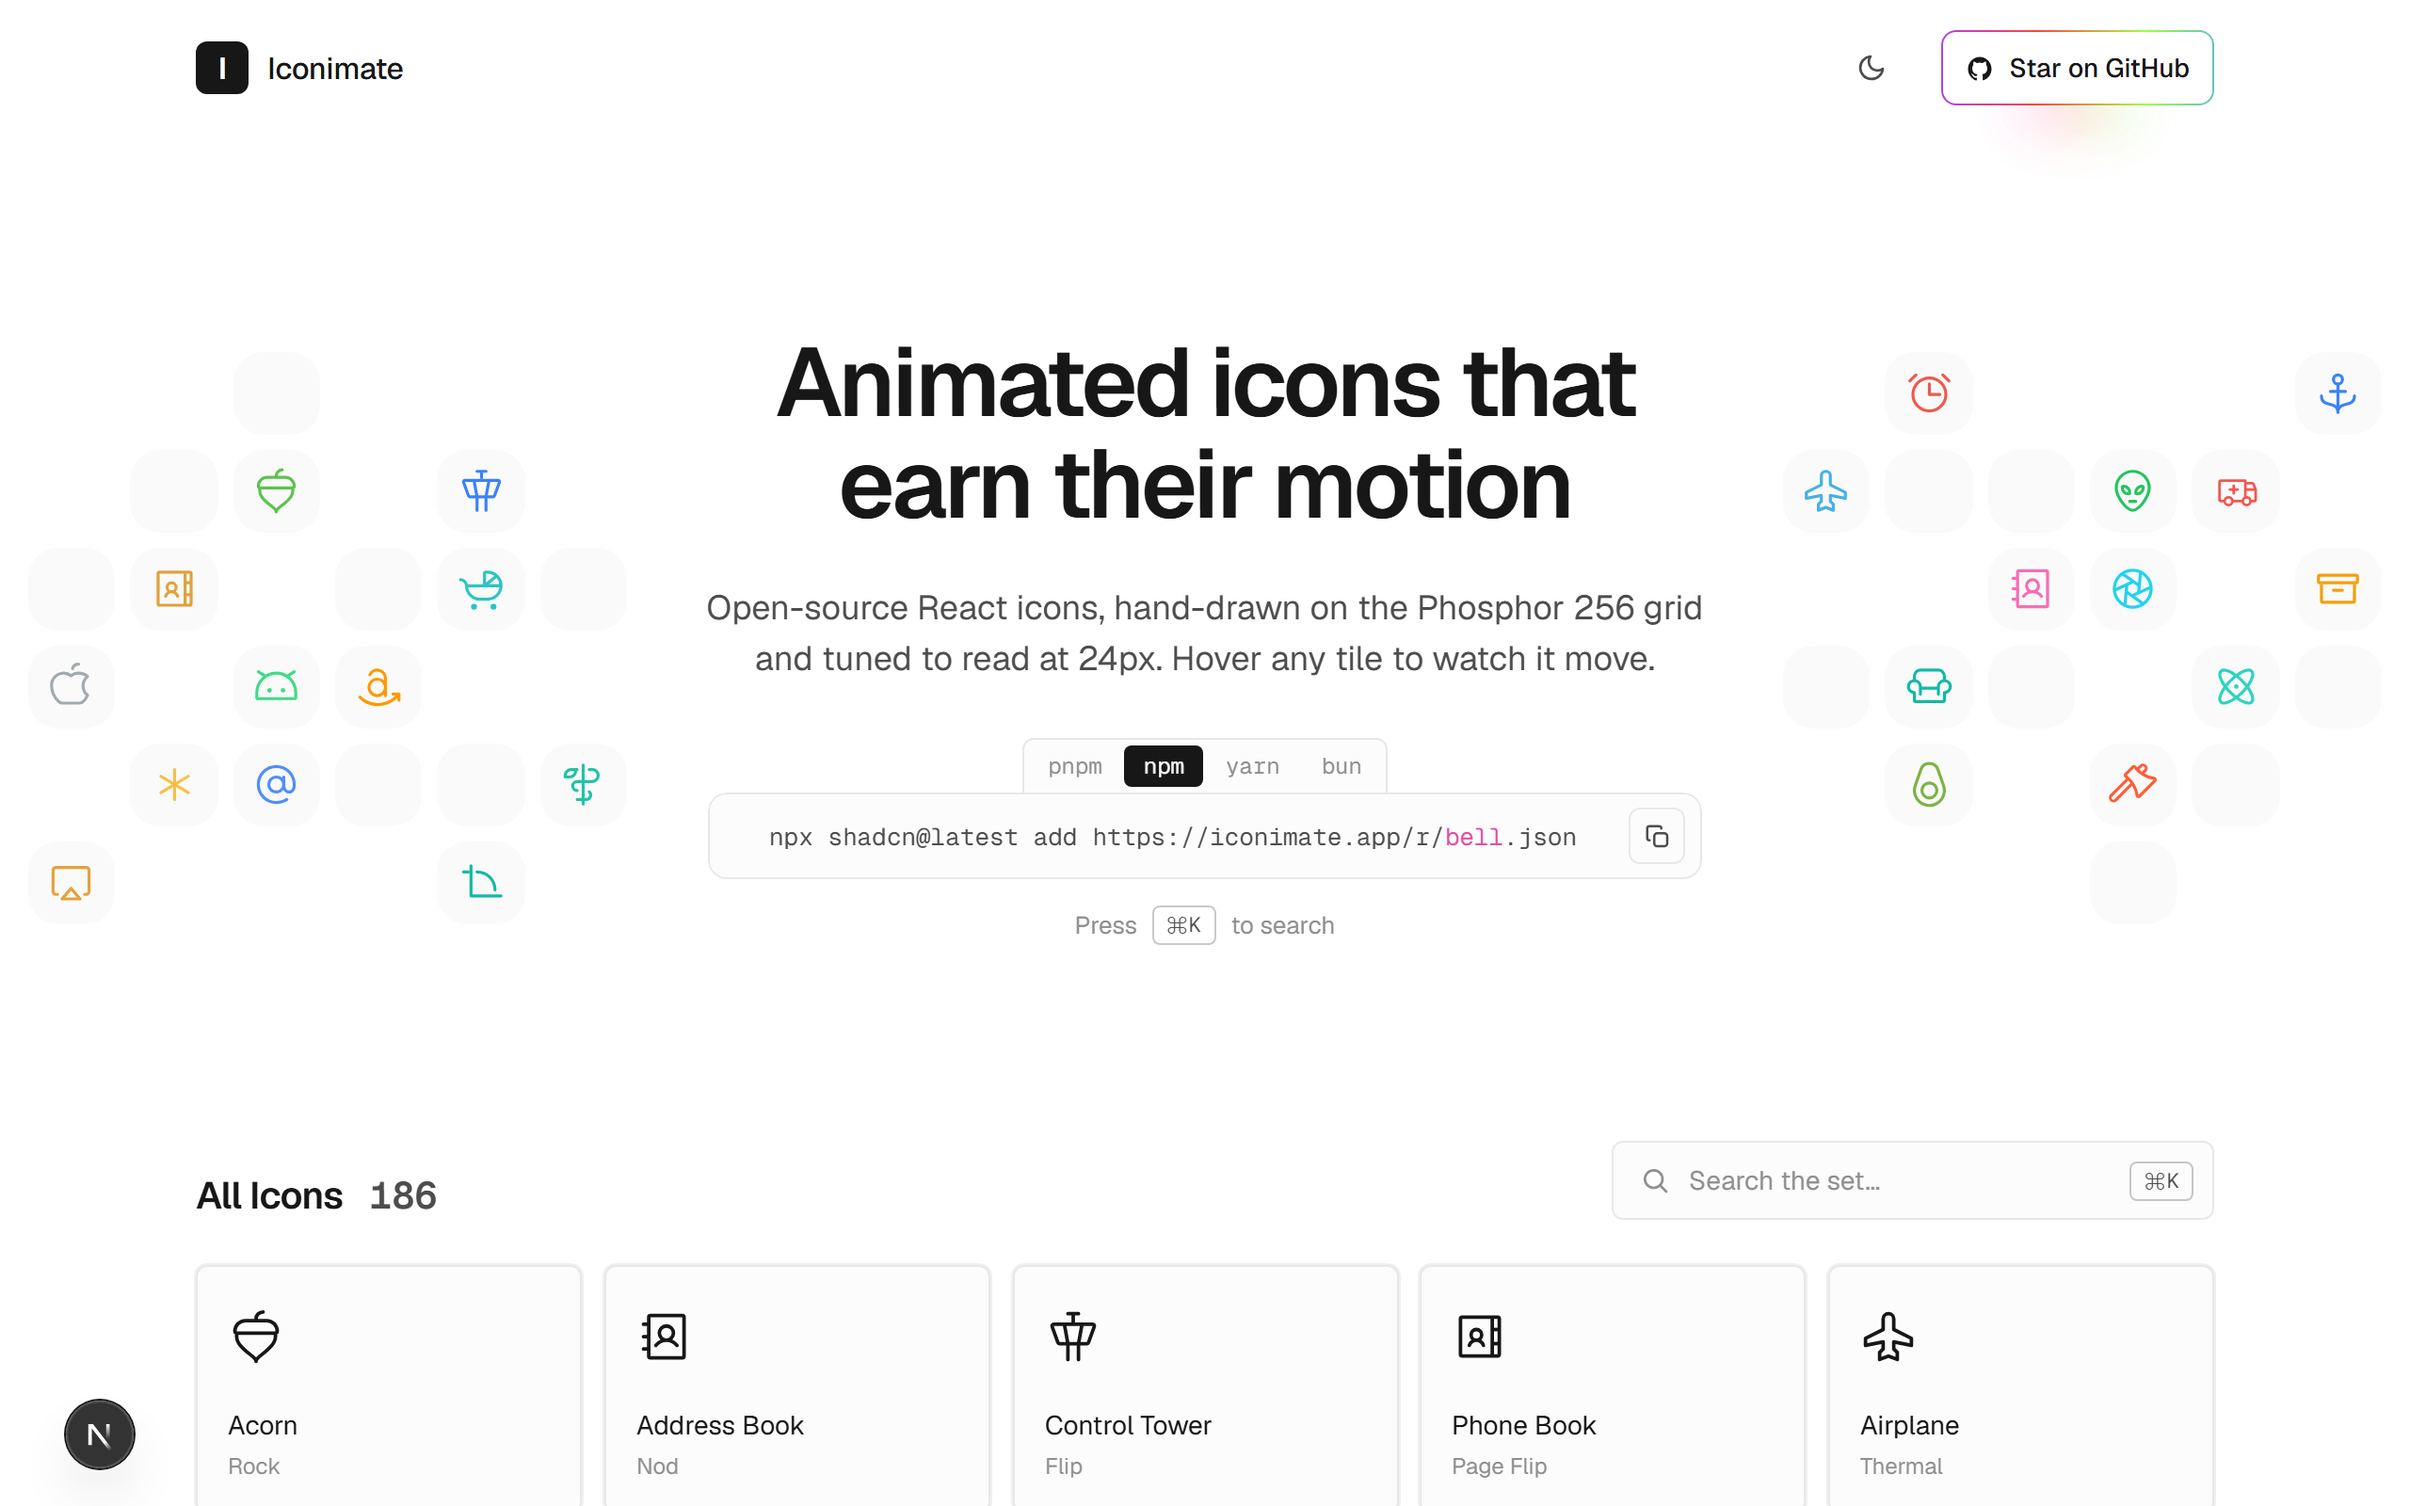
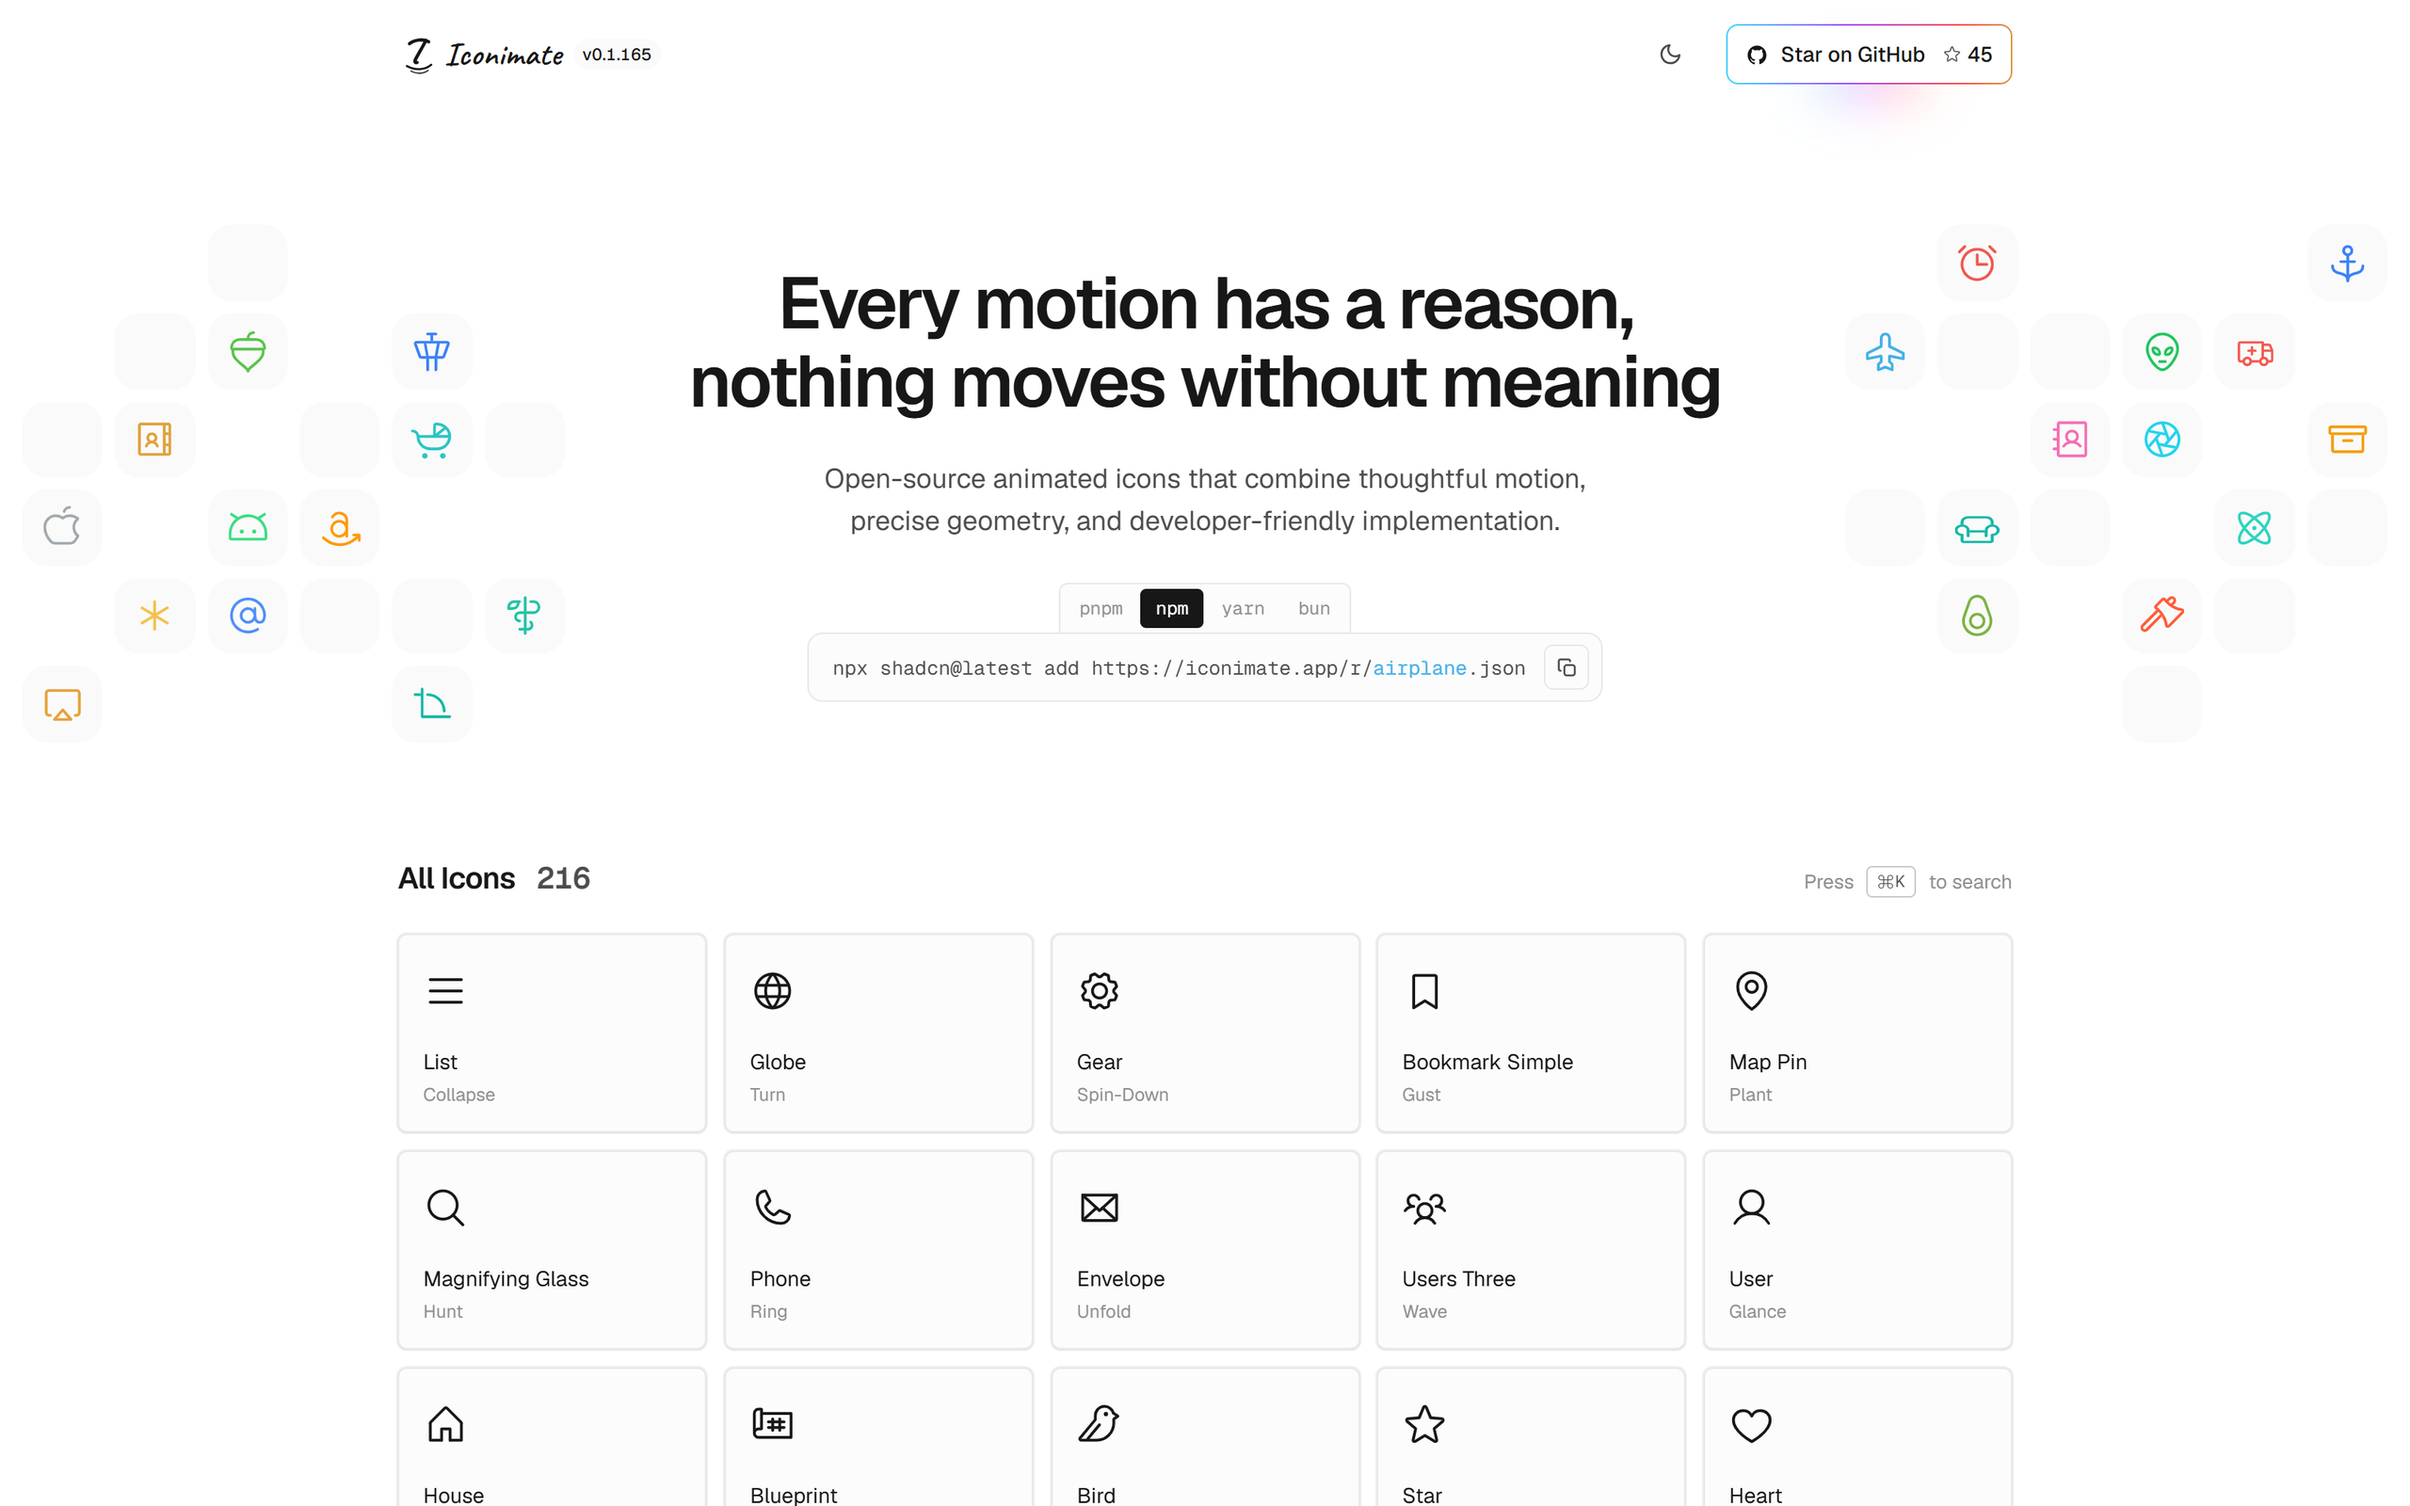
Make the Iconimate case study personal and bring its images up to date
Problem and Solution now read as a personal project: why I kept rebuilding
the same icon, then two How might we statements (one consistent library
instead of paid or limited sets, and adding an icon as easily as copying one
line). The Solution is tighter, with fewer, combined paragraphs; previewing,
installing and controlling each icon are one section.

The outcomes grid uses DEV's own logo, and DEV Community's post about the
library on X is a link card in the style of Mahaana's Dawn card, with no
embed script and no engagement counts. The header shows Iconimate's logo
(mark and Caveat wordmark, outlined, light and dark) from its repo.

The hero and thumbnails are a fresh capture of iconimate.app's hero
(216 icons, 45 stars), replacing the old "186 icons" images.

diff --git a/src/components/case-study/IconimateSections.tsx b/src/components/case-study/IconimateSections.tsx
@@ -1,19 +1,28 @@
 import { Megaphone, Scale, Shapes, Star, type LucideIcon } from "lucide-react";
 
-// Iconimate case-study graphics that aren't live icons: the outcomes grid and
-// the closing links. Zero-prop presets like the other case-study components
+// Iconimate case-study graphics that aren't live icons: the outcomes grid, the
+// DEV Community post, and the closing links. Zero-prop presets like the other case-study components
 // (next-mdx-remote doesn't reliably pass array/object props, see Mdx.tsx).
+
+/** DEV's own logo (the "DEV" badge), from Simple Icons (CC0), cropped to the badge. */
+function DevLogo({ className = "h-9 w-auto sm:h-10", label = "DEV.to" }: { className?: string; label?: string }) {
+  return (
+    <svg role="img" aria-label={label} viewBox="0 4.94 24 14.12" fill="currentColor" className={className}>
+      <path d="M7.42 10.05c-.18-.16-.46-.23-.84-.23H6l.02 2.44.04 2.45.56-.02c.41 0 .63-.07.83-.26.24-.24.26-.36.26-2.2 0-1.91-.02-1.96-.29-2.18zM0 4.94v14.12h24V4.94H0zM8.56 15.3c-.44.58-1.06.77-2.53.77H4.71V8.53h1.4c1.67 0 2.16.18 2.6.9.27.43.29.6.32 2.57.05 2.23-.02 2.73-.47 3.3zm5.09-5.47h-2.47v1.77h1.52v1.28l-.72.04-.75.03v1.77l1.22.03 1.2.04v1.28h-1.6c-1.53 0-1.6-.01-1.87-.3l-.3-.28v-3.16c0-3.02.01-3.18.25-3.48.23-.31.25-.31 1.88-.31h1.64v1.3zm4.68 5.45c-.17.43-.64.79-1 .79-.18 0-.45-.15-.67-.39-.32-.32-.45-.63-.82-2.08l-.9-3.39-.45-1.67h.76c.4 0 .75.02.75.05 0 .06 1.16 4.54 1.26 4.83.04.15.32-.7.73-2.3l.66-2.52.74-.04c.4-.02.73 0 .73.04 0 .14-1.67 6.38-1.8 6.68z" />
+    </svg>
+  );
+}
 
 /**
  * Outcomes, in the same 2×2 grid as Mahaana's. Public figures only, as of
  * September 2026: the icon count on iconimate.app, the GitHub star count, the
  * licence, and the DEV.to feature.
  */
-const STATS: { value: string; label: string; Icon: LucideIcon; tint: string }[] = [
+const STATS: { value: string; label: string; Icon: LucideIcon; tint: string; logo?: typeof DevLogo }[] = [
   { value: "216", label: "Animated icons", Icon: Shapes, tint: "text-violet-500/30 dark:text-violet-400/30" },
   { value: "45", label: "GitHub stars", Icon: Star, tint: "text-amber-500/35 dark:text-amber-400/30" },
   { value: "MIT", label: "Open-source licence", Icon: Scale, tint: "text-sky-500/30 dark:text-sky-400/30" },
-  { value: "DEV.to", label: "Featured on its social media", Icon: Megaphone, tint: "text-emerald-500/30 dark:text-emerald-400/30" },
+  { value: "DEV.to", label: "Featured on its social media", Icon: Megaphone, tint: "text-emerald-500/30 dark:text-emerald-400/30", logo: DevLogo },
 ];
 
 export function IconimateImpact() {
@@ -22,21 +31,86 @@ export function IconimateImpact() {
       {/* The gap-px over bg-border trick draws the dividers, so STATS must stay
           an even count (an empty cell shows as a slab of border colour). */}
       <div className="grid grid-cols-2 gap-px overflow-hidden rounded-xl border border-border bg-border">
-        {STATS.map(({ value, label, Icon, tint }) => (
+        {STATS.map(({ value, label, Icon, tint, logo: Logo }) => (
           <div key={label} className="relative flex flex-col overflow-clip bg-card px-4 py-5 sm:px-5 sm:py-6">
             <Icon
               aria-hidden="true"
               strokeWidth={1.25}
               className={`pointer-events-none absolute -right-4 -bottom-7 h-20 w-20 sm:-right-5 sm:-bottom-6 sm:h-32 sm:w-32 ${tint}`}
             />
-            <span className="relative text-3xl font-semibold tabular-nums tracking-tight text-foreground sm:text-4xl">
-              {value}
+            {/* A logo, where the figure is a brand, sits on the same line box as
+                the numbers so the labels line up across the row. */}
+            <span className="relative flex h-9 items-center text-3xl font-semibold tabular-nums tracking-tight text-foreground sm:h-10 sm:text-4xl">
+              {Logo ? <Logo /> : value}
             </span>
             <span className="relative mt-1 pr-8 text-sm leading-snug text-muted-foreground sm:pr-0">{label}</span>
           </div>
         ))}
       </div>
       <figcaption className="mt-3 text-center text-sm text-muted-foreground">Figures as of September 2026.</figcaption>
+    </figure>
+  );
+}
+
+/**
+ * DEV Community's post about Iconimate on X, as a link card in the same form
+ * as Mahaana's Dawn article card, rather than X's embed script (heavy, and it
+ * tracks readers). The words are the post's own, from X's public syndication
+ * data; the thumbnail is the post's cover image, served by X.
+ */
+const POST = {
+  url: "https://x.com/ThePracticalDev/status/2087457310083862910",
+  date: "12 August 2026",
+  image: "https://pbs.twimg.com/card_img/2102925540504088576/n53Pkg0S?format=jpg&name=800x419",
+};
+
+export function IconimateDevPost() {
+  return (
+    <figure className="case-figure not-prose my-10">
+      <a
+        href={POST.url}
+        target="_blank"
+        rel="noopener noreferrer"
+        className="group flex flex-col gap-5 rounded-xl no-underline! border border-border bg-card p-5 transition-colors sm:flex-row sm:items-stretch hover:border-foreground/20 focus-visible:outline-none focus-visible:ring-2 focus-visible:ring-ring sm:p-6"
+      >
+        <span className="flex min-w-0 flex-1 flex-col justify-center">
+          <span className="flex items-center gap-3 whitespace-nowrap font-mono text-xs uppercase tracking-widest text-muted-foreground">
+            <DevLogo className="h-4 w-auto shrink-0 text-foreground" label="DEV Community" />
+            <span aria-hidden>·</span>
+            {POST.date}
+          </span>
+          {/* DEV's words, so they're quoted. */}
+          <span className="mt-2 block text-lg leading-snug text-foreground">
+            “Most animated icon sets are drawn on their own grid, so they look almost right beside your existing
+            icons.”
+          </span>
+          <span className="mt-2 block text-sm text-muted-foreground">
+            This dev&apos;s open source React library sits on the Phosphor 256 grid instead, with Motion running
+            underneath.
+          </span>
+          <span className="mt-4 flex items-center gap-1 text-sm text-muted-foreground transition-colors group-hover:text-foreground">
+            View the post on x.com
+            <span aria-hidden="true" className="transition-transform duration-200 group-hover:translate-x-0.5 group-hover:-translate-y-0.5">
+              ↗
+            </span>
+          </span>
+        </span>
+        {/* The thumbnail runs the card's full height from sm up, cropped around
+            the page's headline; on phones it keeps the cover's own shape. */}
+        <span className="relative block aspect-[800/419] shrink-0 overflow-hidden rounded-lg border border-border bg-white sm:aspect-auto sm:min-h-44 sm:w-72">
+          <img
+            src={POST.image}
+            alt="The Iconimate website, as the post's cover: “Every motion has a reason, nothing moves without meaning”, above a grid of icons."
+            width={800}
+            height={419}
+            loading="lazy"
+            decoding="async"
+            referrerPolicy="no-referrer"
+            // The unlayered `.prose img` rule adds margins and a border.
+            className="absolute inset-0 m-0! block size-full rounded-none! border-0! object-cover object-[50%_18%] transition-transform duration-500 ease-out group-hover:scale-[1.04] motion-reduce:transition-none"
+          />
+        </span>
+      </a>
     </figure>
   );
 }

diff --git a/src/components/Mdx.tsx b/src/components/Mdx.tsx
@@ -11,7 +11,7 @@ import {
 } from "@/components/case-study/IconimateDemo";
 import { IconimateLabCandidates } from "@/components/case-study/IconimateLab";
 import { IconimateCardDemo } from "@/components/case-study/IconimateCard";
-import { IconimateImpact, IconimateLinks } from "@/components/case-study/IconimateSections";
+import { IconimateDevPost, IconimateImpact, IconimateLinks } from "@/components/case-study/IconimateSections";
 import { Goals, Goal, Feature, HowMightWe, Question, TocGroup } from "@/components/case-study/CaseStudySections";
 import {
   MahaanaFoundations,
@@ -40,6 +40,7 @@ const components = {
   IconimateLabCandidates,
   IconimateCardDemo,
   IconimateImpact,
+  IconimateDevPost,
   IconimateLinks,
   Goals,
   Goal,
